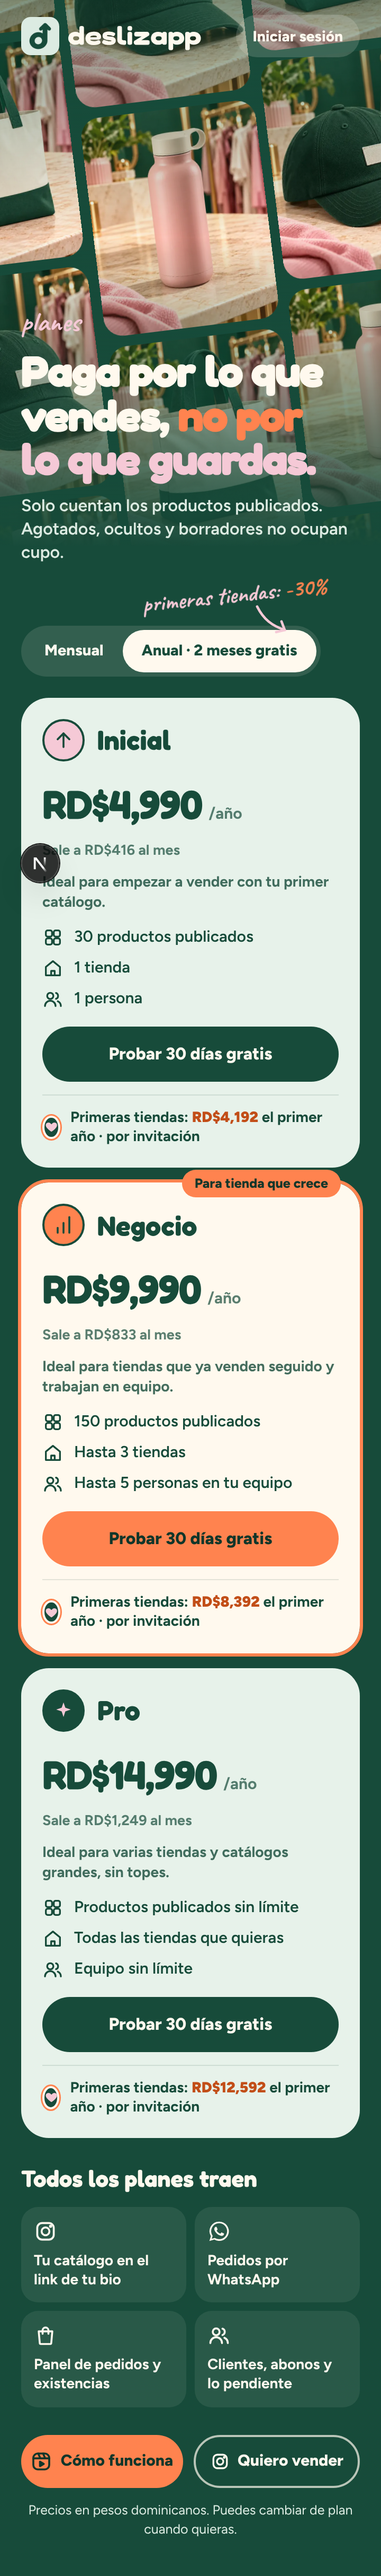
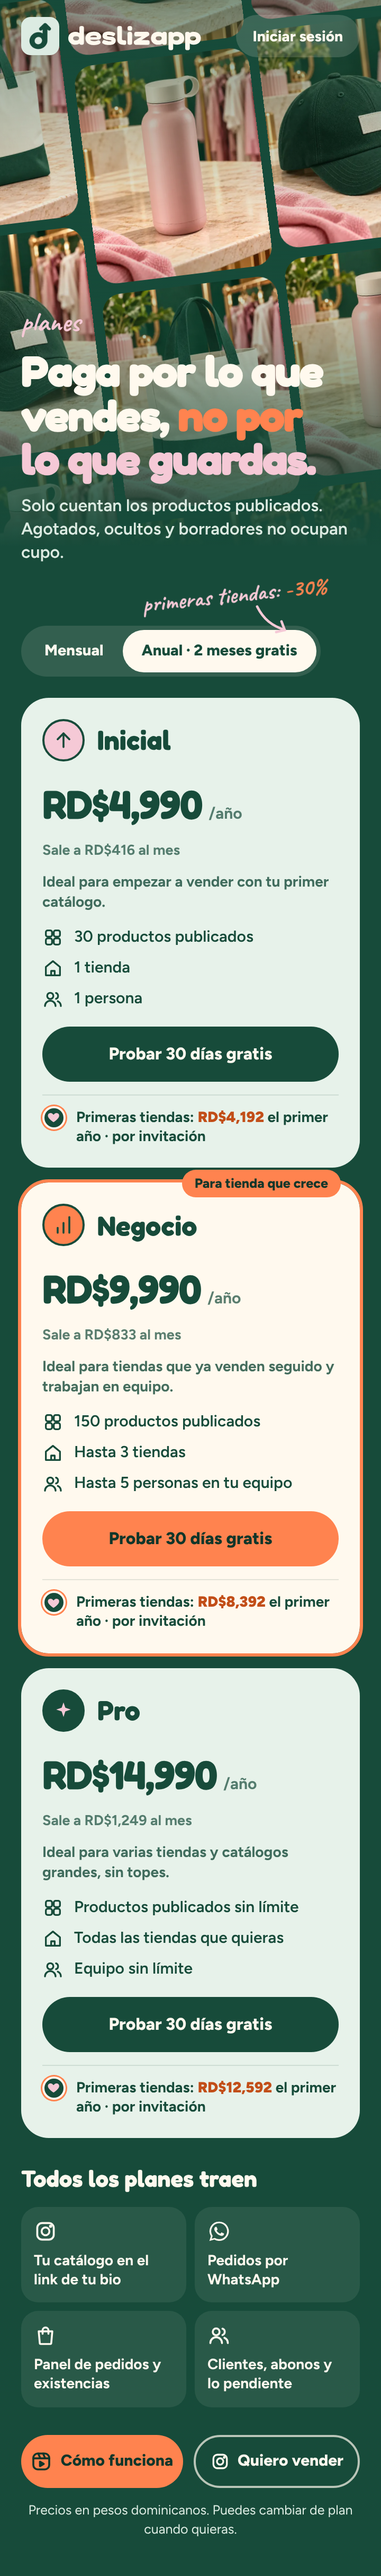
/planes: el sello del pie ya no se aplasta a óvalo; nota a mano y pie de cada tarjeta siempre visibles, animación una vez al entrar en pantalla
Claude-Session: https://claude.ai/code/session_01NZFN1xw2rtVGywTawbCJGm

diff --git a/components/planes/nota-descuento.tsx b/components/planes/nota-descuento.tsx
@@ -1,18 +1,45 @@
+"use client";
+
+import { useEffect, useRef, useState } from "react";
 import { textoMenosCirculo } from "@/lib/circulo";
 
 /**
- * La nota a mano del descuento de las primeras tiendas, junto al selector de /planes y solo en «Anual» (opción E,
- * referencias/planes/descuento-nota-a-mano.dc.html): «primeras tiendas: -30%» en Caveat, girada unos -6°, con una flechita dibujada a
- * mano que baja hacia el botón «Anual». Al aparecer, la nota hace un fundido corto y la flecha se dibuja (pagina-planes.css). Solo
+ * La nota a mano del descuento de las primeras tiendas, junto al selector de /planes (opción E, referencias/planes/descuento-nota-a-mano.dc.html):
+ * «primeras tiendas: -30%» en Caveat, girada unos -6°, con una flecha dibujada a mano que baja hacia el botón «Anual». Se ve siempre,
+ * con «Mensual» o «Anual». Se anima una sola vez, cuando el selector entra en pantalla: la nota hace un fundido corto y la flecha se
+ * dibuja (pagina-planes.css); cambiar de pestaña no la repite. Con movimiento reducido, todo queda quieto desde el principio. Solo
  * decorativa: el pie de cada tarjeta lo dice en texto.
  */
 export function NotaDescuento() {
+  const ref = useRef<HTMLSpanElement>(null);
+  // "no": todavía fuera de pantalla (oculta, lista para animarse); "si": ya entró y se animó (no vuelve a empezar).
+  const [vista, setVista] = useState<"no" | "si">("no");
+  useEffect(() => {
+    const el = ref.current;
+    if (!el) return;
+    if (typeof IntersectionObserver === "undefined") {
+      // Sin IntersectionObserver, se ve y se anima de una vez.
+      const id = window.setTimeout(() => setVista("si"), 0);
+      return () => window.clearTimeout(id);
+    }
+    const o = new IntersectionObserver(
+      ([e]) => {
+        if (e?.isIntersecting) {
+          setVista("si");
+          o.disconnect();
+        }
+      },
+      { threshold: 0.6 },
+    );
+    o.observe(el);
+    return () => o.disconnect();
+  }, []);
   return (
     <>
-      <span className="pl-nota-mano" aria-hidden="true" data-nota-mano="">
+      <span ref={ref} className="pl-nota-mano" data-vista={vista} aria-hidden="true" data-nota-mano="">
         primeras tiendas: <span className="pl-nota-mano-menos">{textoMenosCirculo}</span>
       </span>
-      <svg className="pl-flecha" width="34" height="30" viewBox="0 0 34 30" fill="none" stroke="#F5C9D6" strokeWidth="2.4" strokeLinecap="round" aria-hidden="true">
+      <svg className="pl-flecha" data-vista={vista} width="34" height="30" viewBox="0 0 34 30" fill="none" stroke="#F5C9D6" strokeWidth="2.4" strokeLinecap="round" aria-hidden="true">
         <path d="M4 2c6 12 14 18 26 22" pathLength="1" />
         <path d="M22 26l8-2-3-8" pathLength="1" className="pl-flecha-punta" />
       </svg>

diff --git a/components/planes/pagina-planes.css b/components/planes/pagina-planes.css
@@ -116,8 +116,7 @@ html:has(.pl) body {
   color: var(--color-menta);
 }
 
-/* La caja del selector: la nota a mano del -30 % va encima de su esquina de arriba a la derecha (solo en «Anual»); arriba queda aire para
-   ella y para la flecha, siempre (también en «Mensual», para que la página no salte al cambiar). */
+/* La caja del selector: la nota a mano del -30 % va encima de su esquina de arriba a la derecha ; arriba queda aire para ella y para la flecha. */
 .pl-selector-caja {
   position: relative;
   align-self: flex-start;
@@ -136,6 +135,9 @@ html:has(.pl) body {
   white-space: nowrap;
   transform: rotate(-6deg);
   pointer-events: none;
+  opacity: 0;
+}
+.pl-nota-mano[data-vista="si"] {
   animation: pl-nota-entra 0.25s ease-out both;
 }
 .pl-nota-mano-menos {
@@ -151,9 +153,11 @@ html:has(.pl) body {
 .pl-flecha path {
   stroke-dasharray: 1;
   stroke-dashoffset: 1;
+}
+.pl-flecha[data-vista="si"] path {
   animation: pl-flecha-dibuja 0.28s ease-out 0.12s both;
 }
-.pl-flecha .pl-flecha-punta {
+.pl-flecha[data-vista="si"] .pl-flecha-punta {
   animation-duration: 0.12s;
   animation-delay: 0.38s;
 }
@@ -170,11 +174,16 @@ html:has(.pl) body {
     stroke-dashoffset: 0;
   }
 }
+/* Movimiento reducido: la nota y la flecha se ven completas desde el principio, sin animación. */
 @media (prefers-reduced-motion: reduce) {
-  .pl-nota-mano {
+  .pl-nota-mano,
+  .pl-nota-mano[data-vista] {
     animation: none;
+    opacity: 1;
   }
-  .pl-flecha path {
+  .pl-flecha path,
+  .pl-flecha[data-vista] path,
+  .pl-flecha[data-vista] .pl-flecha-punta {
     animation: none;
     stroke-dashoffset: 0;
   }
@@ -241,10 +250,10 @@ html:has(.pl) body {
   border: 2px solid var(--marca-bosque);
   border-radius: 50%;
 }
-/* Al pie de cada tarjeta, solo en «Anual»: una línea fina (bosque al 12 %), 12 px de aire, el sello del corazón y el precio del primer año. */
+/* Al pie de cada tarjeta, siempre (es un precio anual): una línea fina (bosque al 12 %), 12 px de aire, el sello del corazón y el precio del primer año. */
 .pl-pie-circulo {
   display: flex;
-  align-items: center;
+  align-items: flex-start;
   gap: 10px;
   padding-top: 12px;
   border-top: 1px solid rgba(23, 75, 58, 0.12);
@@ -252,8 +261,12 @@ html:has(.pl) body {
   font-size: 14px;
   line-height: 1.3;
 }
-.pl-pie-circulo > span {
+.pl-pie-circulo > span:last-child {
   min-width: 0;
+}
+/* El sello alineado con la primera línea del texto (22 px de alto contra una línea de ~18 px). */
+.pl-pie-circulo > span:first-child {
+  margin-top: -2px;
 }
 .pl-pie-circulo b {
   color: #c24e18;

diff --git a/components/planes/lista-planes.tsx b/components/planes/lista-planes.tsx
@@ -53,9 +53,9 @@ export function ListaPlanes({ planes }: { planes: PlanPublico[] }) {
 
   return (
     <>
-      {/* La nota a mano del -30 % va arriba a la derecha del selector, solo en «Anual», con una flecha hacia el botón «Anual». */}
+      {/* La nota a mano del -30 % va arriba a la derecha del selector, siempre, con una flecha hacia el botón «Anual»; se anima una vez al entrar en pantalla. */}
       <div className="pl-selector-caja">
-        {anual && <NotaDescuento />}
+        <NotaDescuento />
       <div className="pl-selector" role="group" aria-label="Forma de pago">
         <button type="button" aria-pressed={!anual} onClick={() => setAnual(false)} className="tocable" data-forma="mensual">
           Mensual
@@ -107,8 +107,8 @@ export function ListaPlanes({ planes }: { planes: PlanPublico[] }) {
               <button type="button" className="pl-probar tocable" onClick={() => void probar()} disabled={entrando} data-cta="probar">
                 {entrando ? "Abriendo Google…" : `Probar ${DIAS_DE_PRUEBA} días gratis`}
               </button>
-              {/* Al pie, solo en «Anual»: el sello del corazón del Círculo y el precio del primer año de las primeras tiendas, de este plan. */}
-              {anual && p.precioMensual != null && (
+              {/* Al pie, siempre (es un precio anual y vale con cualquier opción del selector): el sello del corazón del Círculo y el precio del primer año de las primeras tiendas, de este plan. */}
+              {p.precioMensual != null && (
                 <div className="pl-pie-circulo" data-pie-circulo="">
                   <SelloCorazon tamano={22} borde={2} filo={1.5} />
                   <span>

diff --git a/components/panel/logo-tienda.tsx b/components/panel/logo-tienda.tsx
@@ -40,7 +40,8 @@ export function SelloCorazon({ tamano, borde, filo = 0, className, style }: { ta
   return (
     <span
       className={className}
-      style={{ width: tamano, height: tamano, background: BOSQUE, border: `${borde}px solid ${PAPEL}`, boxSizing: "border-box", borderRadius: "50%", display: "grid", placeItems: "center", boxShadow: filo ? `0 0 0 ${filo}px ${MANDARINA}` : undefined, ...style }}
+      // flex: none + minWidth/minHeight + aspect-ratio: dentro de una fila flex con texto de varias líneas no se encoge a óvalo.
+      style={{ width: tamano, height: tamano, minWidth: tamano, minHeight: tamano, flex: "none", aspectRatio: "1 / 1", background: BOSQUE, border: `${borde}px solid ${PAPEL}`, boxSizing: "border-box", borderRadius: "50%", display: "grid", placeItems: "center", boxShadow: filo ? `0 0 0 ${filo}px ${MANDARINA}` : undefined, ...style }}
       aria-hidden="true"
     >
       <svg width={tamano * 0.6} height={tamano * 0.6} viewBox="0 0 24 24" fill={ROSA} stroke="none">
